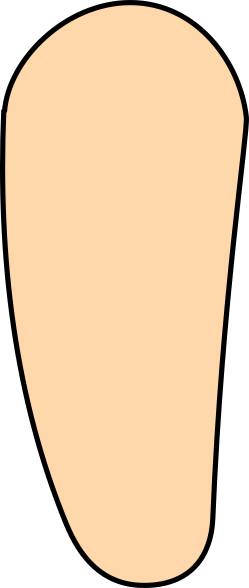
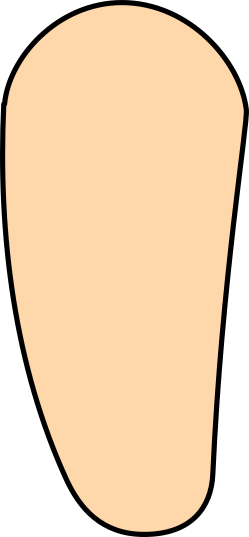
Add files via upload

diff --git a/paperdoll/index.html b/paperdoll/index.html
@@ -139,7 +139,7 @@
       {
         id: 'foot_r', name: 'Right Foot', zIndex: -20, x: 610, y: 490, rot: 0,
         w: 75, h: 36, color: '#fed7aa', parentId: null, activePivotIdx: 0,
-        imgSrc: 'parts/foot.png', flipX: true,
+        imgSrc: 'parts/foot.png', flipX: false,
         magnets: [{ id: 'foot_ankle_r', relX: -22, relY: -10 }]
       },
       // LOWER ARMS & LEGS
@@ -148,7 +148,7 @@
         w: 30, h: 85, color: '#8b5cf6', parentId: null, activePivotIdx: 0,
         imgSrc: 'parts/forearm.png', flipX: false,
         magnets: [
-          { id: 'forearm_elbow_l', relX: 0, relY: -25 },
+          { id: 'forearm_elbow_l', relX: 0, relY: -30 },
           { id: 'wrist_l', relX: -2, relY: 35 }
         ]
       },
@@ -157,7 +157,7 @@
         w: 30, h: 85, color: '#8b5cf6', parentId: null, activePivotIdx: 0,
         imgSrc: 'parts/forearm.png', flipX: true,
         magnets: [
-          { id: 'forearm_elbow_r', relX: 0, relY: -25 },
+          { id: 'forearm_elbow_r', relX: 0, relY: -30 },
           { id: 'wrist_r', relX: -2, relY: 35 }
         ]
       },
@@ -166,17 +166,17 @@
         w: 40, h: 120, color: '#1d4ed8', parentId: null, activePivotIdx: 0,
         imgSrc: 'parts/shin.png', flipX: false,
         magnets: [
-          { id: 'shin_knee_l', relX: 0, relY: -50 },
-          { id: 'ankle_l', relX: 10, relY: 50 }
+          { id: 'shin_knee_l', relX: 2, relY: -50 },
+          { id: 'ankle_l', relX: 8, relY: 50 }
         ]
       },
       {
         id: 'shin_r', name: 'Right Shin', zIndex: -15, x: 510, y: 450, rot: 0,
         w: 40, h: 120, color: '#1d4ed8', parentId: null, activePivotIdx: 0,
-        imgSrc: 'parts/shin.png', flipX: true,
+        imgSrc: 'parts/shin.png', flipX: false,
         magnets: [
-          { id: 'shin_knee_r', relX: 0, relY: -50 },
-          { id: 'ankle_r', relX: 10, relY: 50 }
+          { id: 'shin_knee_r', relX: 2, relY: -50 },
+          { id: 'ankle_r', relX: 8, relY: 50 }
         ]
       },
       // UPPER ARMS & LEGS
@@ -199,21 +199,21 @@
         ]
       },
       {
-        id: 'thigh_l', name: 'Left Thigh', zIndex: -10, x: 300, y: 520, rot: 0,
-        w: 60, h: 140, color: '#1d4ed8', parentId: null, activePivotIdx: 0,
+        id: 'thigh_l', name: 'Left Thigh', zIndex: -10, x: 300, y: 500, rot: 0,
+        w: 60, h: 130, color: '#1d4ed8', parentId: null, activePivotIdx: 0,
         imgSrc: 'parts/thigh.png', flipX: false,
         magnets: [
           { id: 'hip_l', relX: 0, relY: -40},
-          { id: 'knee_l', relX: 5, relY: 55 }
+          { id: 'knee_l', relX: 5, relY: 50 }
         ]
       },
       {
-        id: 'thigh_r', name: 'Right Thigh', zIndex: -10, x: 420, y: 520, rot: 0,
-        w: 60, h: 140, color: '#1d4ed8', parentId: null, activePivotIdx: 0,
+        id: 'thigh_r', name: 'Right Thigh', zIndex: -10, x: 420, y: 500, rot: 0,
+        w: 60, h: 130, color: '#1d4ed8', parentId: null, activePivotIdx: 0,
         imgSrc: 'parts/thigh.png', flipX: true,
         magnets: [
           { id: 'hip_r', relX: 0, relY: -40 },
-          { id: 'knee_r', relX: 5, relY: 55 }
+          { id: 'knee_r', relX: 5, relY: 50 }
         ]
       },
       // LOWER TORSO
